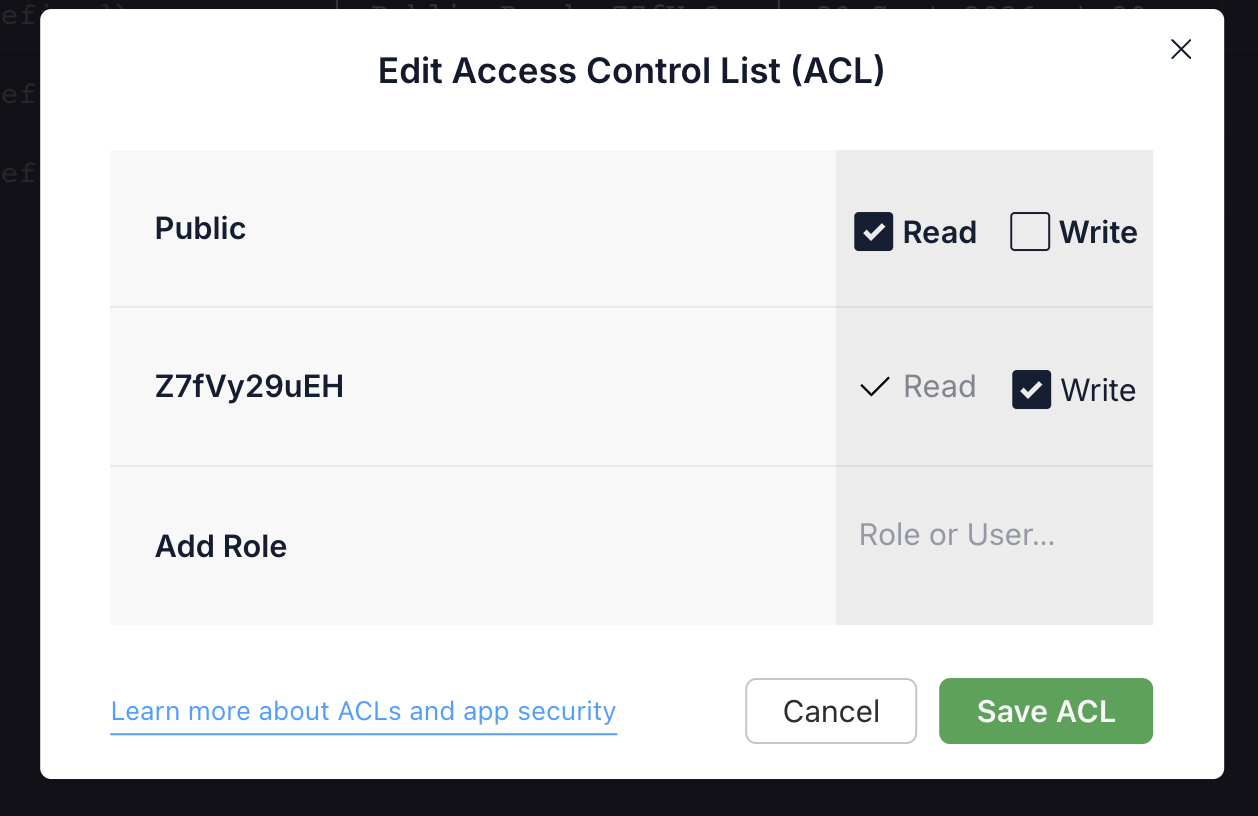
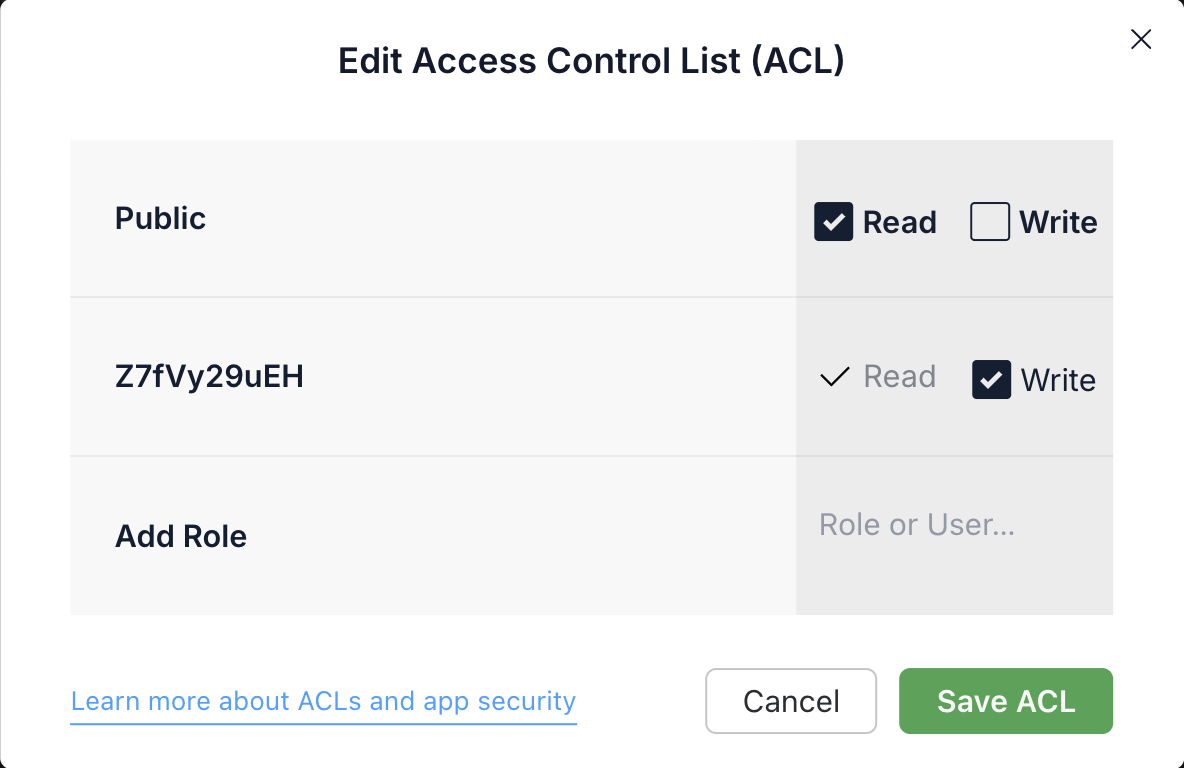
Sharing a List: what class added — other ways to share, invitations, several admins
The ACL screenshot is cropped to the dialog and shown at 400px.

diff --git a/Lectures/Technical/Backend/Many-to-Many-Sharing-a-List.md b/Lectures/Technical/Backend/Many-to-Many-Sharing-a-List.md
@@ -86,7 +86,7 @@ await user.save();
 
 That only helps users who sign up from now on. If your database already has users, their rows are still private, and sharing with them fails with *No user with that name*, although they exist. Tick **Public Read** on each of them, by hand, in the dashboard:
 
-![A user's ACL in the dashboard: Public may read, only the user may write](../images/user-row-acl-public-read.png)
+<img src="../images/user-row-acl-public-read.png" width="400" alt="A user's ACL in the dashboard: Public may read, only the user may write">
 
 ### The class lets only logged-in users ask
 
@@ -173,7 +173,7 @@ Keeping the two in step needs code with authority over Ada's objects, even when 
 
 ## Keeping `owner` next to `ListMember` is a choice you defend
 
-Once `ListMember` exists, Ada could be a member of her own list too, and the `owner` pointer would go. Or `owner` stays, because *the one who may delete the list and share it* is a different thing from *a member who reads it*. Both are defensible; which one is right depends on what your users do. It is exactly the kind of decision the data-model page of your report asks you to explain.
+Once `ListMember` exists, Ada could be a member of her own list too, and the `owner` pointer would go. Or `owner` stays, because *the one who may delete the list and share it* is a different thing from *a member who reads it*. Both are defensible; which one is right depends on what your users do. One thing tips it: `owner` holds exactly one user, so only one person can ever delete the list. If your app needs several admins, the owner moves into `ListMember`, as a column that says what each member may do. It is exactly the kind of decision the data-model page of your report asks you to explain.
 
 ## A join table, not a `Parse.Relation` or an array
 
@@ -184,6 +184,16 @@ Once `ListMember` exists, Ada could be a member of her own list too, and the `ow
 ### Do not model relationships with arrays
 
 Parse lets you store an array of objects in a field, so a `members` array on the list is tempting. Resist it. An array has no room for information about the relationship. It lives inside the list, so only the list's owner can change it. It has to be rewritten in full to add one element. And it gets slow and awkward as soon as it is not tiny. Pointers for one-to-many, a join table for many-to-many. Those two cover everything you need this semester.
+
+## Notes
+
+### Typing a username is the simplest way to share, not the only one
+
+Ada could also send Armin a link to the list. Opening it asks to join, and Ada gets a request she can accept. A link also fits in a QR code, which is how WhatsApp adds a contact: one person shows their code, the other scans it, and lands on the URL that creates the relationship. Both need a URL per list, which is what [Routing in React](../Routing/Routing-in-React.md) gives you. Typing the username is less code, and enough to start with.
+
+### An invitation deserves a class of its own
+
+If Armin has to accept before he is on the list, the pending state could be a column on `ListMember`, and every query for memberships would have to leave the pending ones out. Or it gets a class of its own: sharing creates an `Invitation`, Armin sees his invitations when he logs in, and accepting one creates the `ListMember` row. Both work. The second gives the concept a name, and a design whose concepts have names is easier to read, for you and for anyone, or any agent, working on your code.
 
 ## Exam Questions
 
